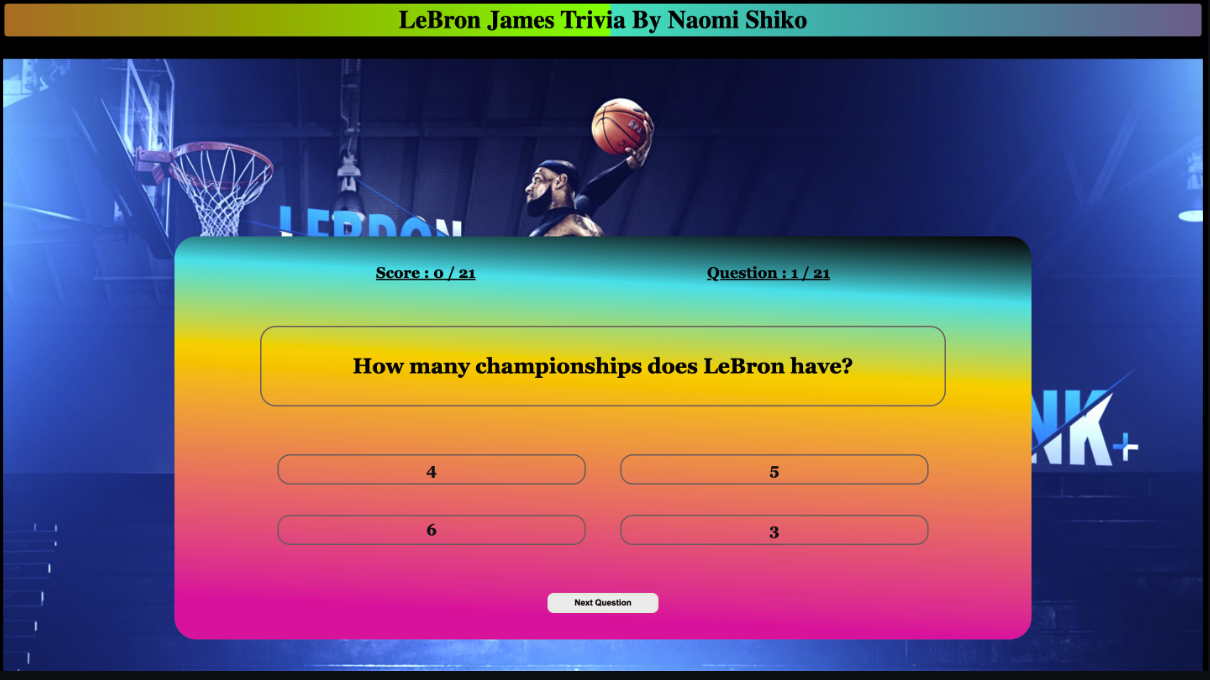
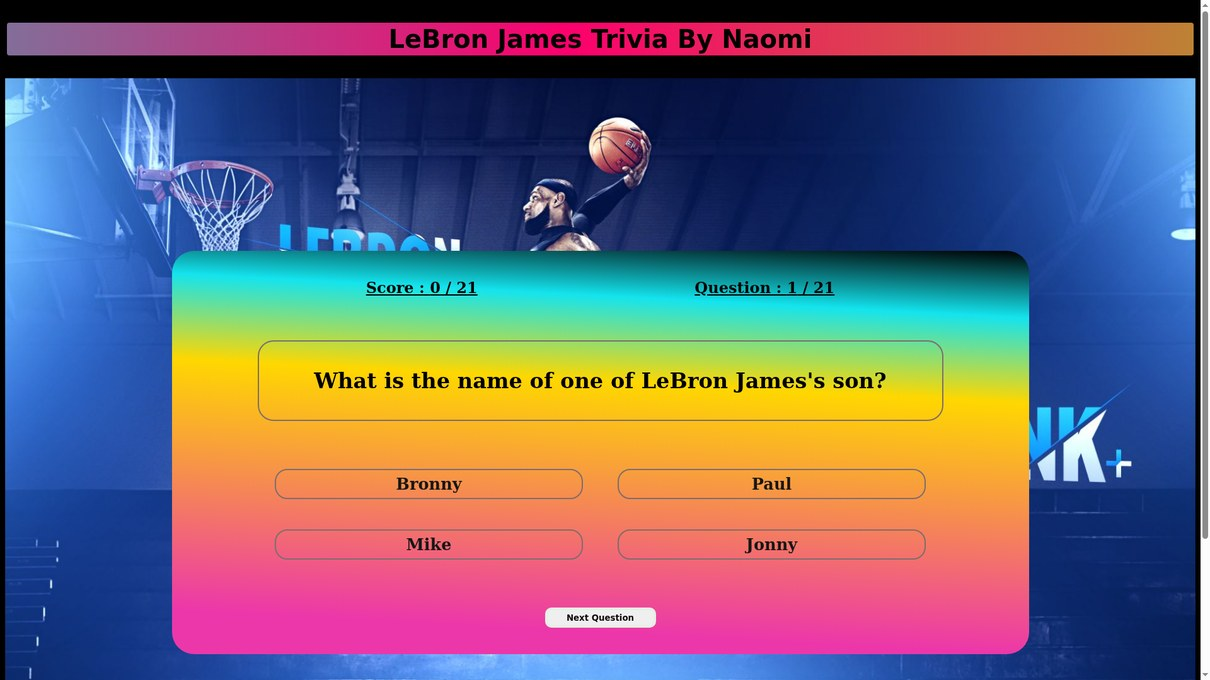
Portfolio: refresh tictac & LeBron thumbnails, link to live GitHub Pages

diff --git a/src/components/Portfolio.jsx b/src/components/Portfolio.jsx
@@ -7,12 +7,16 @@ const Portfolio = () => {
     {
       id: 1,
       src: lebronjamesTrivia,
-      url: "https://taupe-treacle-a736a0.netlify.app/",
+      title: "LeBron James Trivia",
+      desc: "21-question trivia game",
+      url: "https://naomishiko.github.io/LeBron-James-Trivia/",
     },
     {
       id: 2,
       src: tictac,
-      url: "https://spontaneous-brioche-3a4022.netlify.app/",
+      title: "Tic Tac Toe",
+      desc: "Pink & gold glitter game",
+      url: "https://naomishiko.github.io/tictac/",
     },
   ];
 
@@ -30,7 +34,7 @@ const Portfolio = () => {
         </div>
 
           <div className="mx-auto grid max-w-3xl gap-8 sm:grid-cols-2">
-            {portfolios.map(({ id, src, url }) => (
+            {portfolios.map(({ id, src, title, desc, url }) => (
               <a
                 key={id}
                 href={url}
@@ -40,9 +44,13 @@ const Portfolio = () => {
               >
                 <img
                   src={src}
-                  alt="Portfolio project"
+                  alt={title}
                   className="h-56 w-full object-cover transition-transform duration-500 group-hover:scale-105"
                 />
+                <div className="px-5 py-4">
+                  <p className="font-serif text-xl text-ink">{title}</p>
+                  <p className="font-sans text-sm font-light text-ink/60">{desc}</p>
+                </div>
               </a>
             ))}
           </div>
